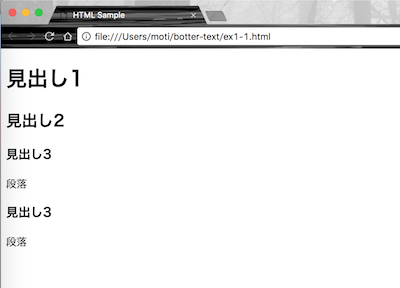
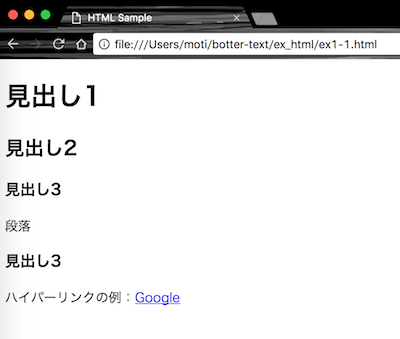
change 1-1.png

diff --git a/ex_html/ex1-1.html b/ex_html/ex1-1.html
@@ -1,0 +1,15 @@
+<!DOCTYPE html>
+<html lang="ja">
+<head>
+    <meta charset="UTF-8">
+    <title>HTML Sample</title>
+</head>
+<body>
+    <h1>見出し1</h1>
+    <h2>見出し2</h2>
+    <h3>見出し3</h3>
+    <p>段落</p>
+    <h3>見出し3</h3>
+    <p>ハイパーリンクの例：<a href="https://www.google.co.jp/">Google</a></p>
+</body>
+</html>
